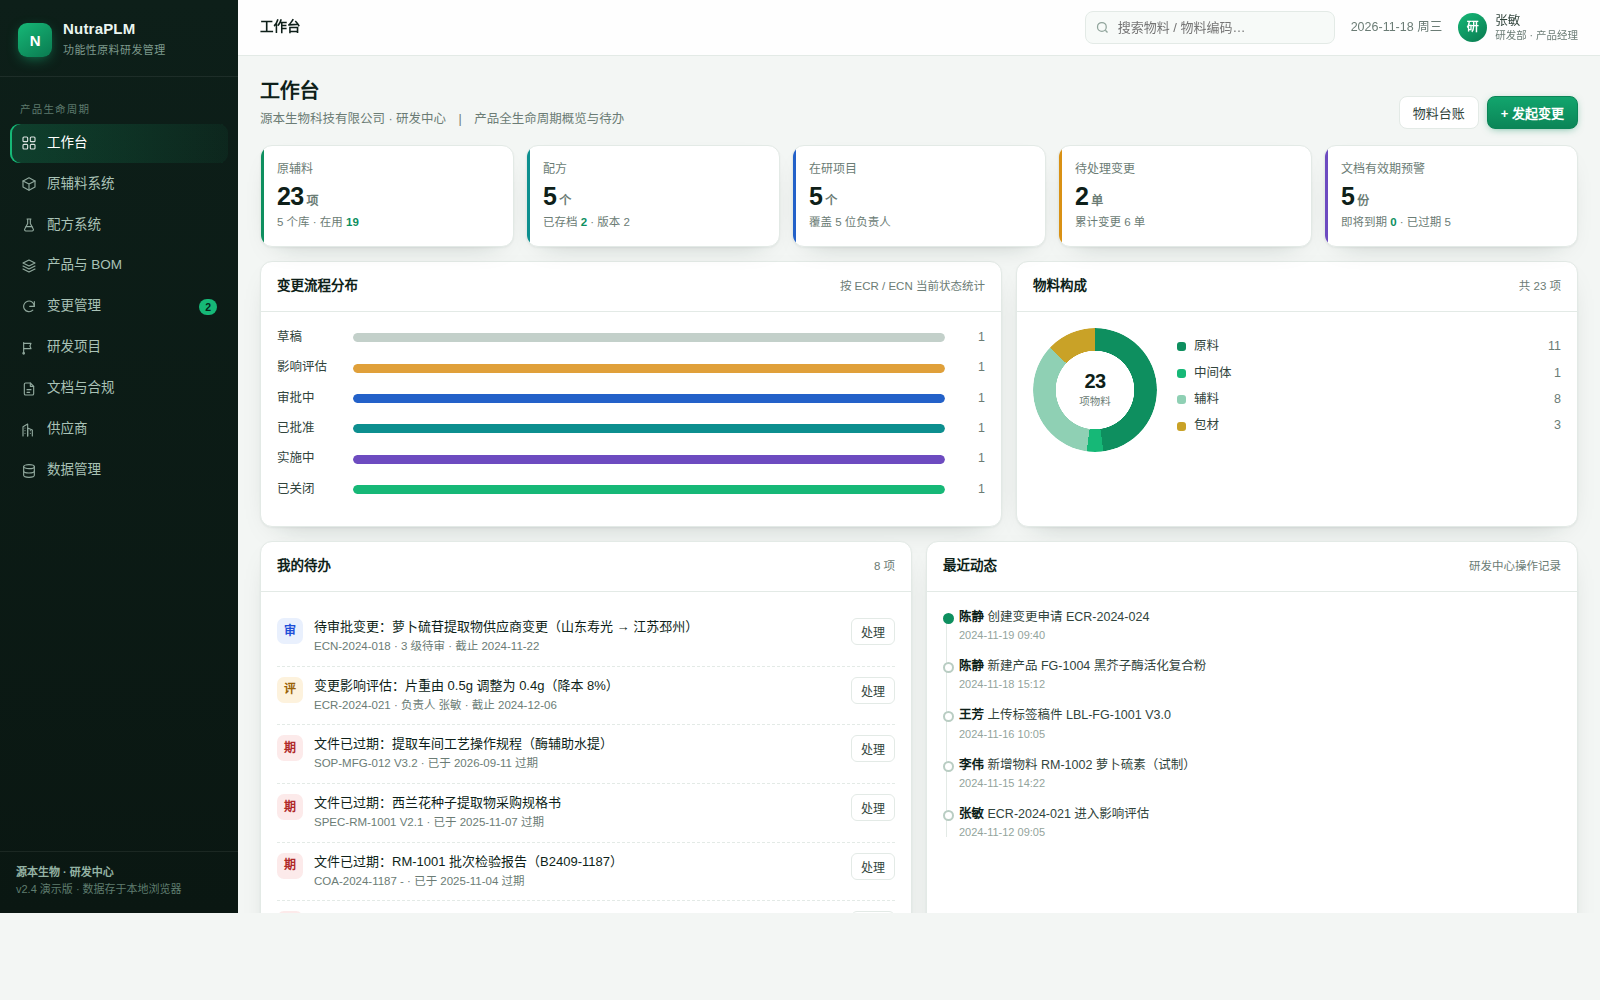
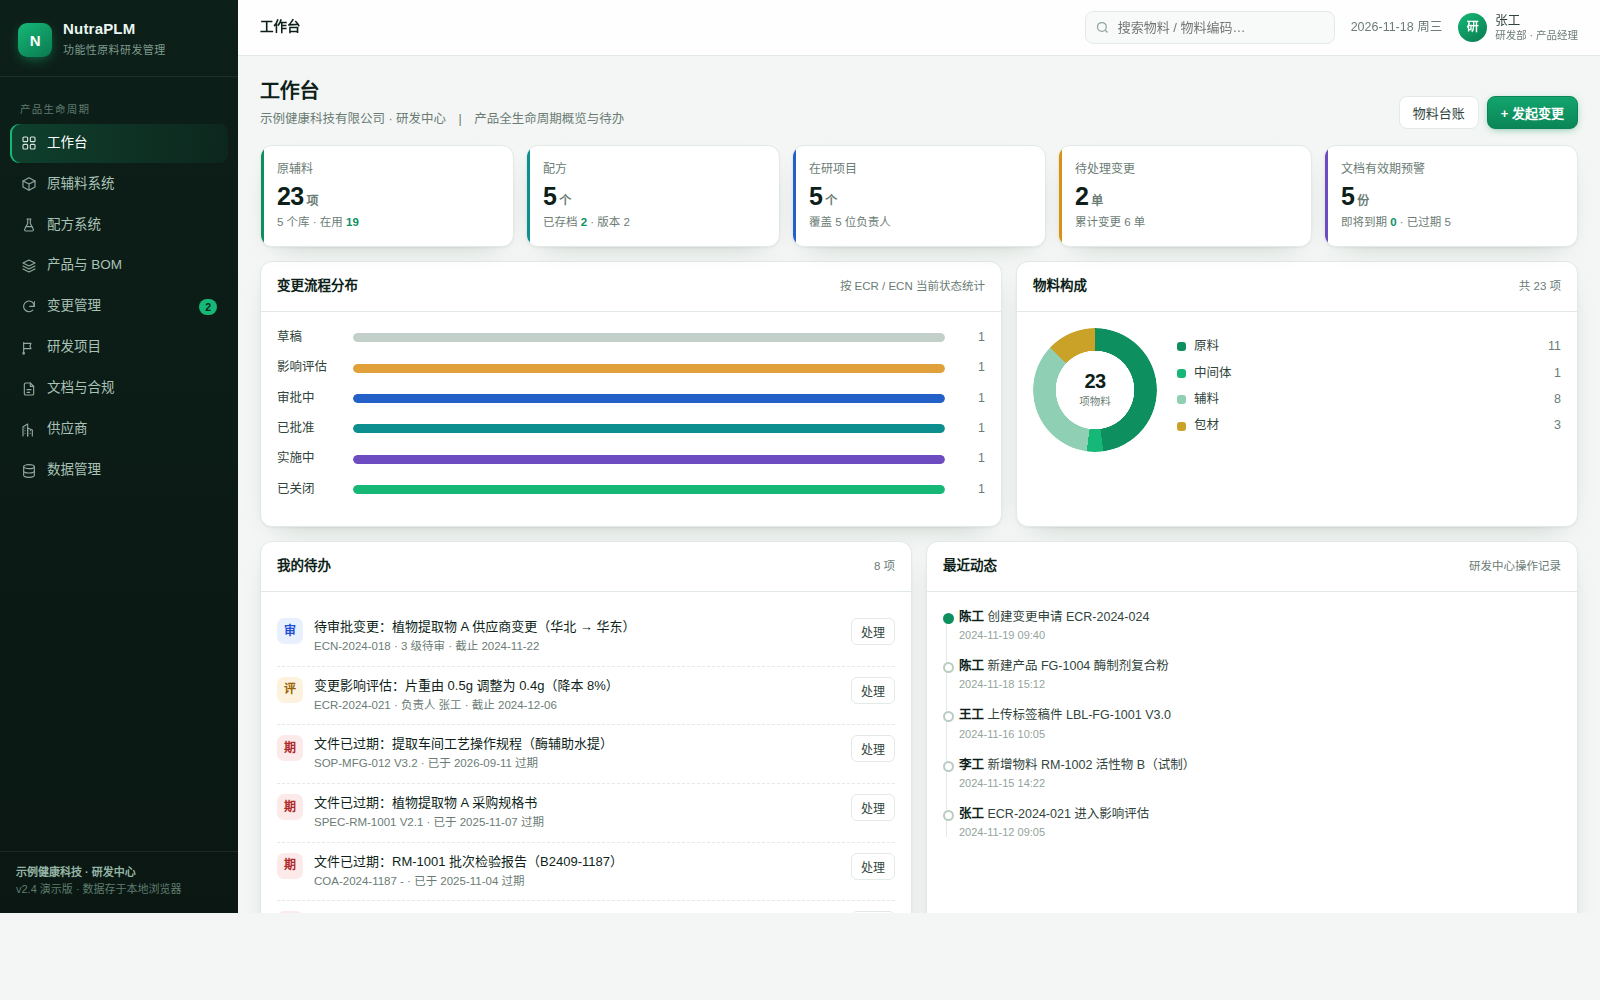
chore: 演示数据脱敏（企业/人员/供应商/产品线/价格替换为通用示例）

diff --git a/README.md b/README.md
@@ -39,7 +39,7 @@ cd PLM
 
 ## 演示数据
 
-预置「西兰花种子提取物 → 萝卜硫苷 → 萝卜硫素」整条产品线的数据：23 项原辅料、5 个配方、4 个产品 BOM、6 个变更单、5 个研发项目、10 份文档、6 家供应商。
+预置一套**脱敏示例数据**（植物提取物 A → 标准化中间体 → 活性物 B 的完整产品线，企业/人员/供应商均为虚构示例）：23 项原辅料、5 个配方、4 个产品 BOM、6 个变更单、5 个研发项目、10 份文档、6 家供应商。
 
 ## 技术说明
 
@@ -58,4 +58,4 @@ cd PLM
 
 ## License
 
-内部演示项目，未指定开源协议。
+内部演示项目，数据均为脱敏示例；未指定开源协议。
